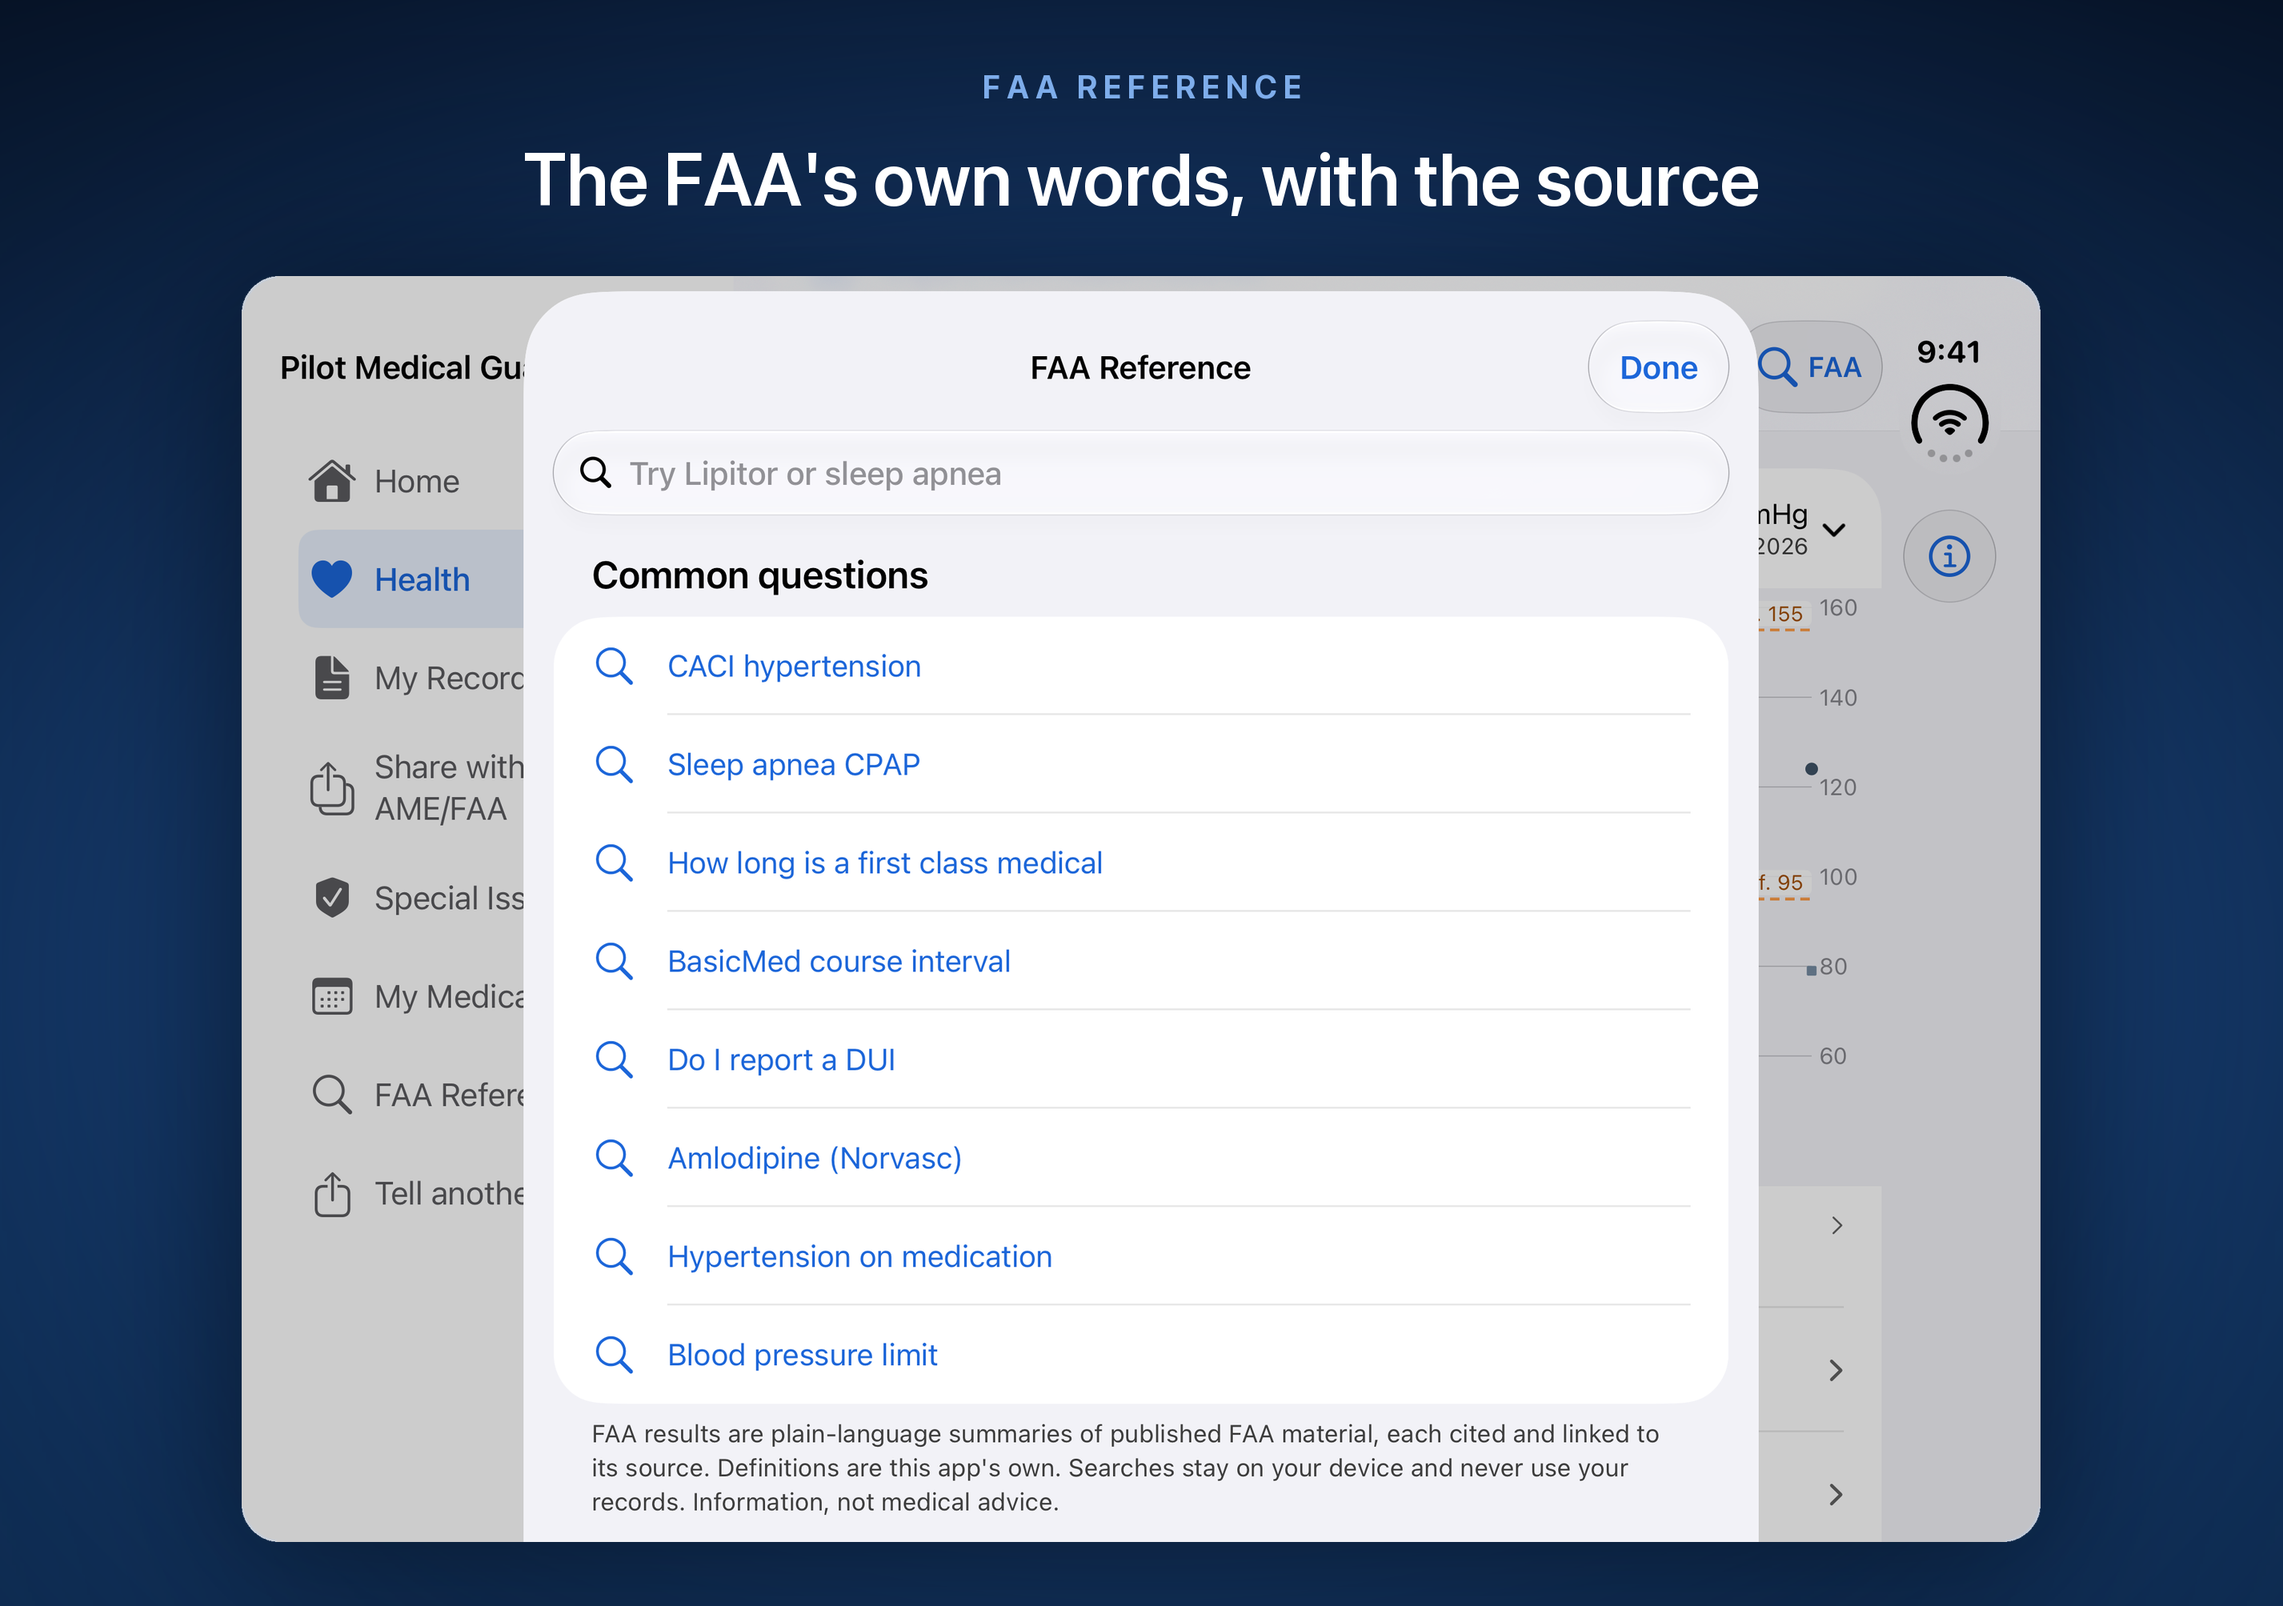
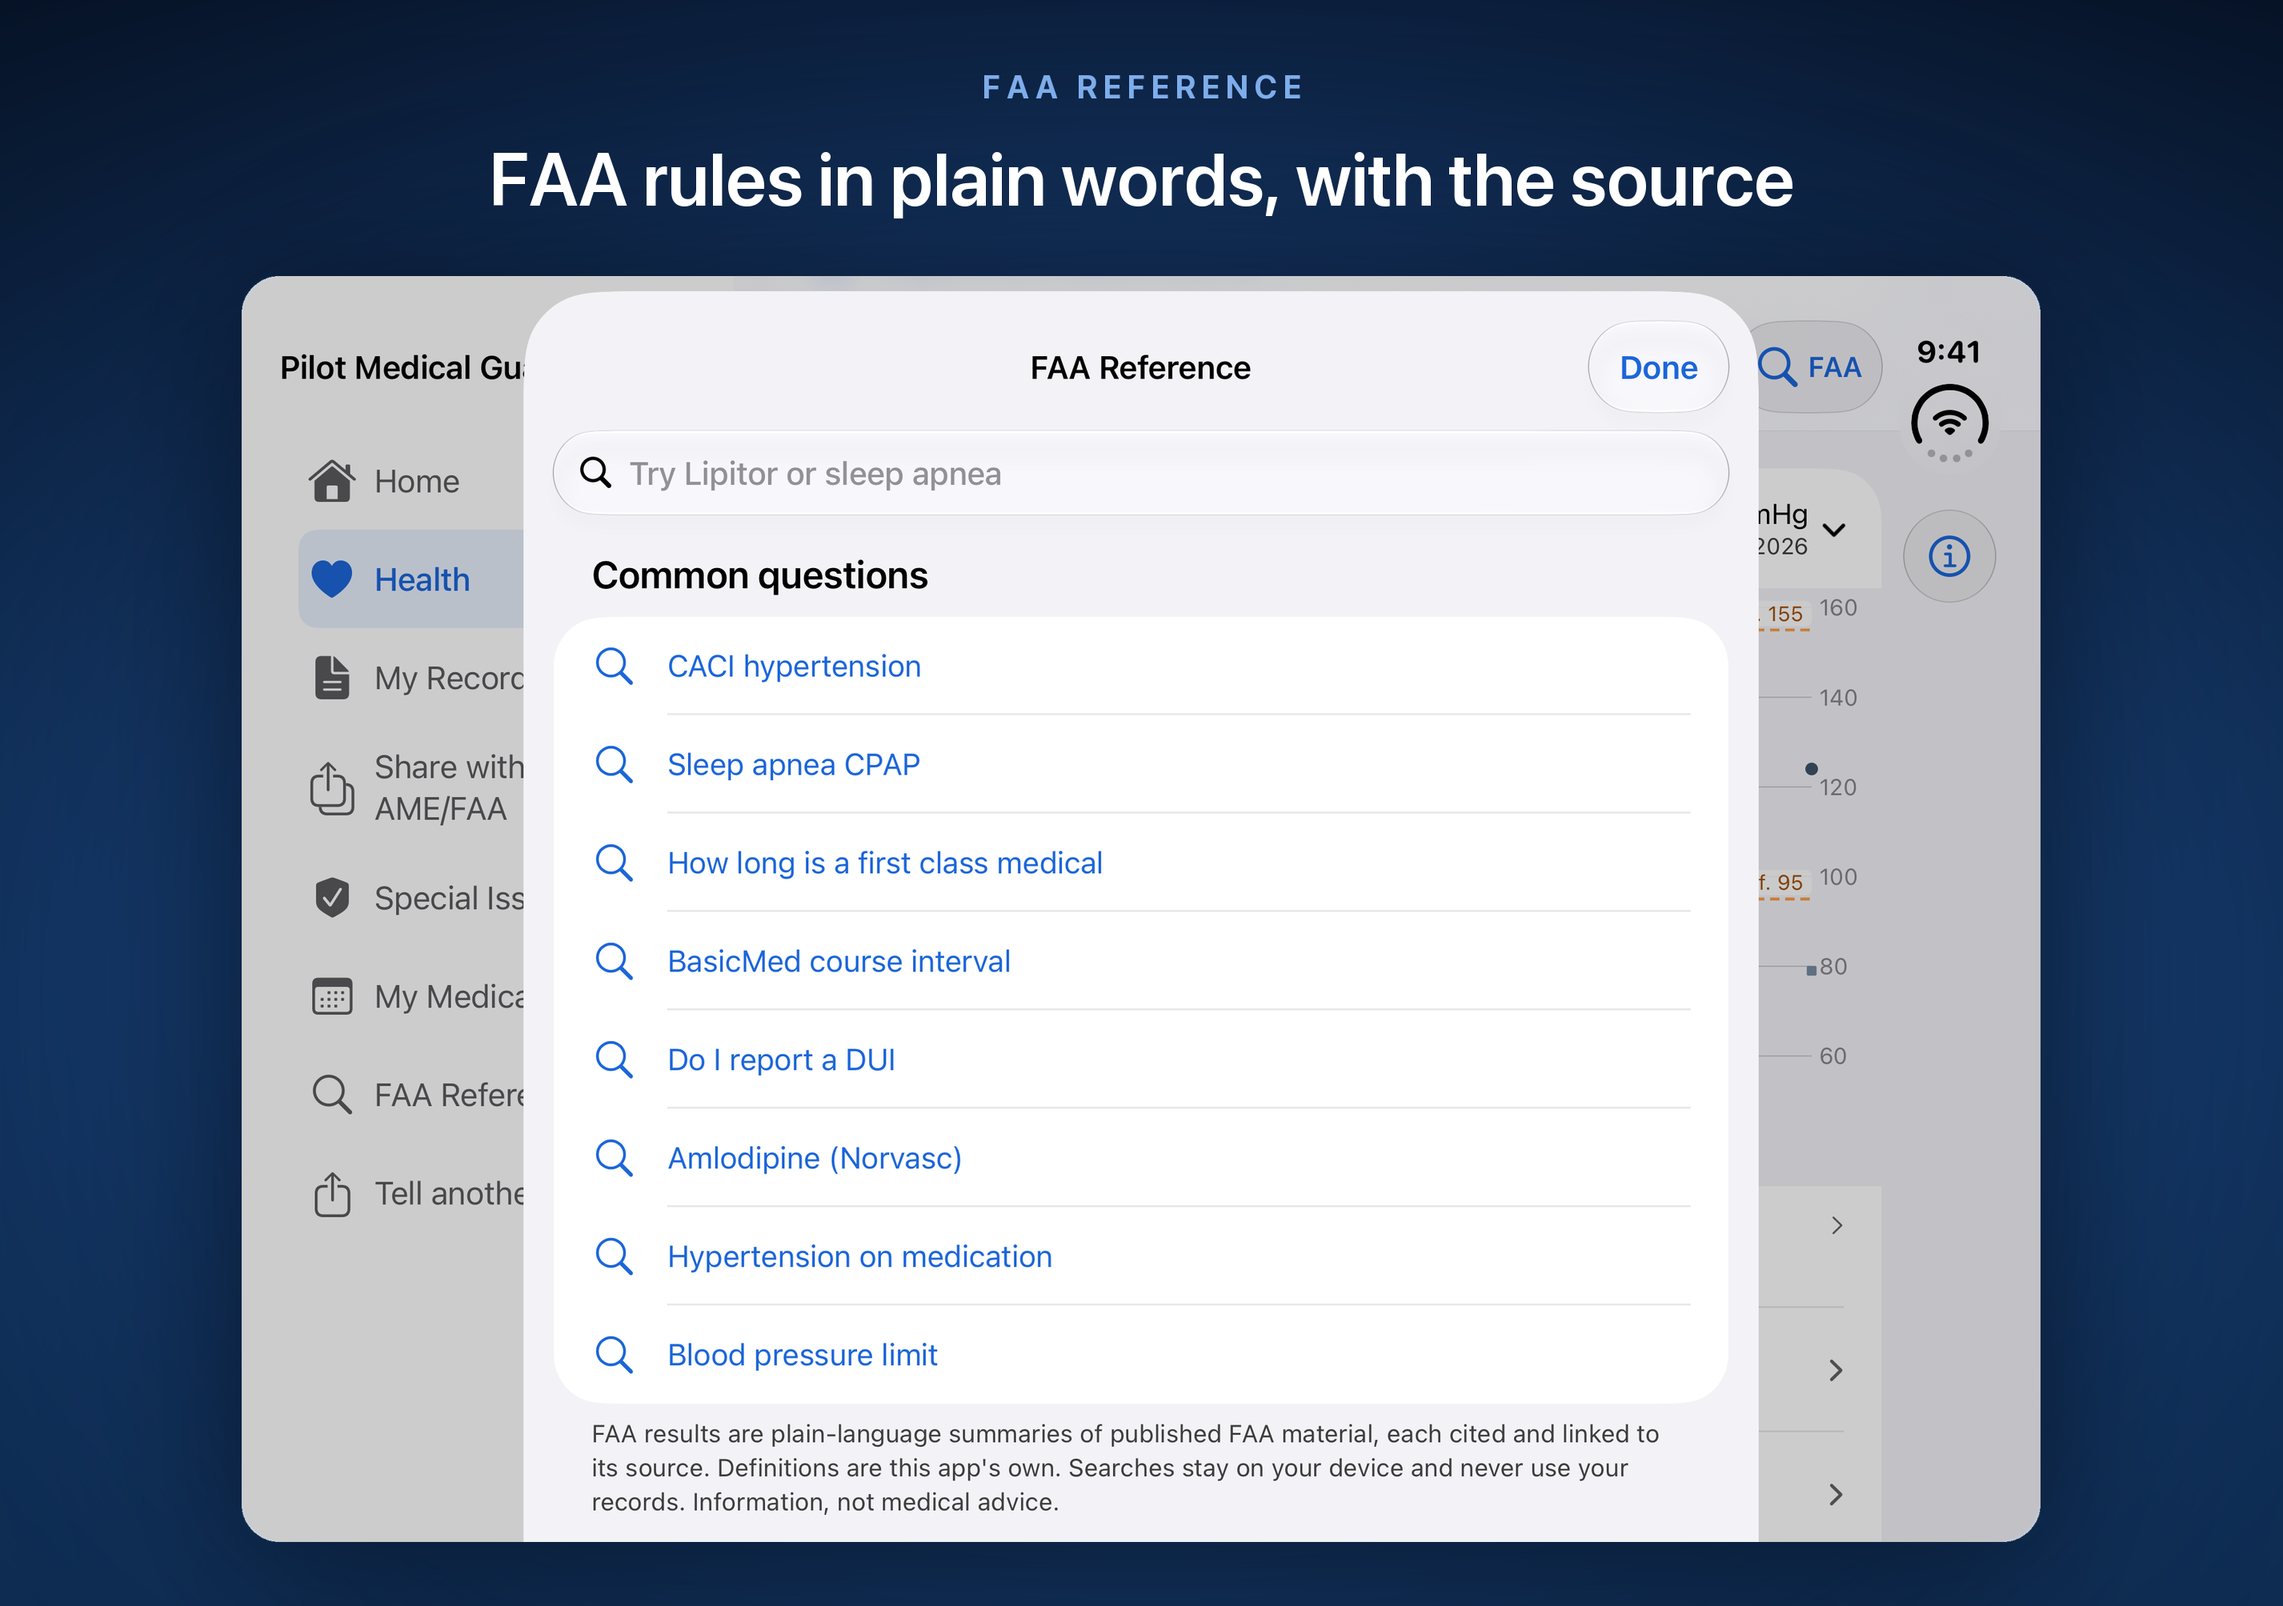
Slot 8 headline: "FAA rules in plain words, with the source" (Ryan 11/20; replaces the headline W56 retracted)
Re-baked slot 8 on iPhone (both sizes), iPad, Duo outer and inner. Mac script
updated; mac-v2 re-bakes with the Mac pass. index.html faa-reference alt text
flipped to match. Staged, not live, nothing uploaded.

Changed region(s): [[0.2184, 0.0927, 0.7799, 0.1545]]

diff --git a/index.html b/index.html
@@ -623,7 +623,7 @@
         <figure><img src="/screenshots/si.webp?v=20261120" width="1206" height="2622" loading="lazy" decoding="async" alt="Special Issuance screen with authorization dates from the pilot's letter and the items coming up"><figcaption>Stay on top of Special Issuance</figcaption></figure>
         <figure><img src="/screenshots/health.webp?v=20261120" width="1206" height="2622" loading="lazy" decoding="async" alt="A health metric charted against the FAA's cited threshold"><figcaption>Your numbers vs. the FAA's own thresholds</figcaption></figure>
         <figure><img src="/screenshots/documents.webp?v=20261120" width="1206" height="2620" loading="lazy" decoding="async" alt="The Share-with-your-AME screen, choosing which records to bundle into one PDF"><figcaption>Bundle it into one PDF for your AME</figcaption></figure>
-        <figure><img src="/screenshots/faa-reference.webp?v=20261120" width="1206" height="2622" loading="lazy" decoding="async" alt="An FAA Reference entry showing what the FAA says, its source, and the date the citation was checked"><figcaption>Ask a plain question, get the FAA's cited answer</figcaption></figure>
+        <figure><img src="/screenshots/faa-reference.webp?v=20261120" width="1206" height="2622" loading="lazy" decoding="async" alt="An FAA Reference entry showing an FAA rule in plain words, the FAA source it links to, and the date the citation was checked"><figcaption>Ask a plain question, get the FAA's cited answer</figcaption></figure>
       </div>
       <p class="fineprint">Screens use sample data.</p>
     </div>

diff --git a/screenshots/asc/build-mac-v2.py b/screenshots/asc/build-mac-v2.py
@@ -92,7 +92,7 @@ SHOTS = [
     ("05-share-with-ame.png",   "SHARE WITH MY AME", "Your records in one PDF for your AME", 0.0),  # own window: its buttons sit in the bottom 6%
     ("06-my-medical.png",       "MY MEDICAL",        "Class 1, 2, 3 and BasicMed together"),
     ("07-health.png",           "HEALTH",            "Your readings beside the FAA threshold"),
-    ("08-faa-reference.png",    "FAA REFERENCE",     "The FAA's own words, with the source"),
+    ("08-faa-reference.png",    "FAA REFERENCE",     "FAA rules in plain words, with the source"),  # Ryan 11/20 (W56)
 ]
 
 WIN_H = 1424

diff --git a/screenshots/asc/build-mobile-v2.py b/screenshots/asc/build-mobile-v2.py
@@ -172,7 +172,7 @@ SLOTS = [
     ("SHARE WITH MY AME", "Your records in one PDF for your AME"),
     ("MY MEDICAL",        "Class 1, 2, 3 and BasicMed together"),
     ("HEALTH",            "Your readings beside the FAA threshold"),
-    ("FAA REFERENCE",     "The FAA's own words, with the source"),
+    ("FAA REFERENCE",     "FAA rules in plain words, with the source"),  # Ryan 11/20; replaces the retracted quoted-words headline (W56)
 ]
 
 def shots(files):

diff --git a/screenshots/asc/README.md b/screenshots/asc/README.md
@@ -165,12 +165,13 @@ Same setup as 11/18 (same three sims, fresh install, seeded once, `--time`). Onl
 - **Duo outer and header asset:** not touched (Duo outer is not uploaded; Home is unchanged).
 - In-app wording on these slots is FINAL: W56, the S15 names and the 5a row were in the 11/19 wording batch Ryan approved
   ("Approve, keep OTC line", FEEDBACK.md 11/19). No re-takes for them.
-- ⚠ **OPEN: slot 8's baked headline "The FAA's own words, with the source"** now contradicts the app, which calls these
-  plain-language summaries (W56 retracted the "quoted" claim; a retracted claim flips everywhere together). Ryan picks the new
-  headline (Support is asking); then edit `SLOTS` in `build-mobile-v2.py` and `SHOTS` in `build-mac-v2.py` and re-run both, so
-  slot 8 is re-baked on every set. Do not upload slot 8 until then.
+- ✅ **Slot 8 headline flipped (Ryan 11/20 wording call): "FAA rules in plain words, with the source"**, replacing the
+  quoted-words headline that W56 retracted. Changed together: `build-mobile-v2.py`, `build-mac-v2.py`, docs
+  `LAUNCH_ASC_DRAFTS.md` table, and the index.html faa-reference alt text. Slot 8 re-baked on iphone-v2, iphone-69-v2,
+  ipad-v2, duo-outer-v2, duo-inner-v2 (nothing else changed). `mac-v2/08` still carries the old headline until the Mac pass
+  re-runs `build-mac-v2.py`. On iPhone and Duo outer "source" sits alone on line 2, as slots 1 and 7 already do with
+  "down" and "threshold" (greedy wrap; balancing is Ryan's style call).
 - Website staged (cache keys `?v=20261120`): medxpress, si, health, faa-reference, documents, basicmed. home.webp kept.
-  OPEN with the headline: the faa-reference alt text still says "showing what the FAA says".
 - Mac set: waits for the final `review-fixes-mac` tip (sidebar rebuild). mac-medxpress.webp's cache key was left at
   20261113 on 11/18 by mistake; bump it with the Mac pass.
 
